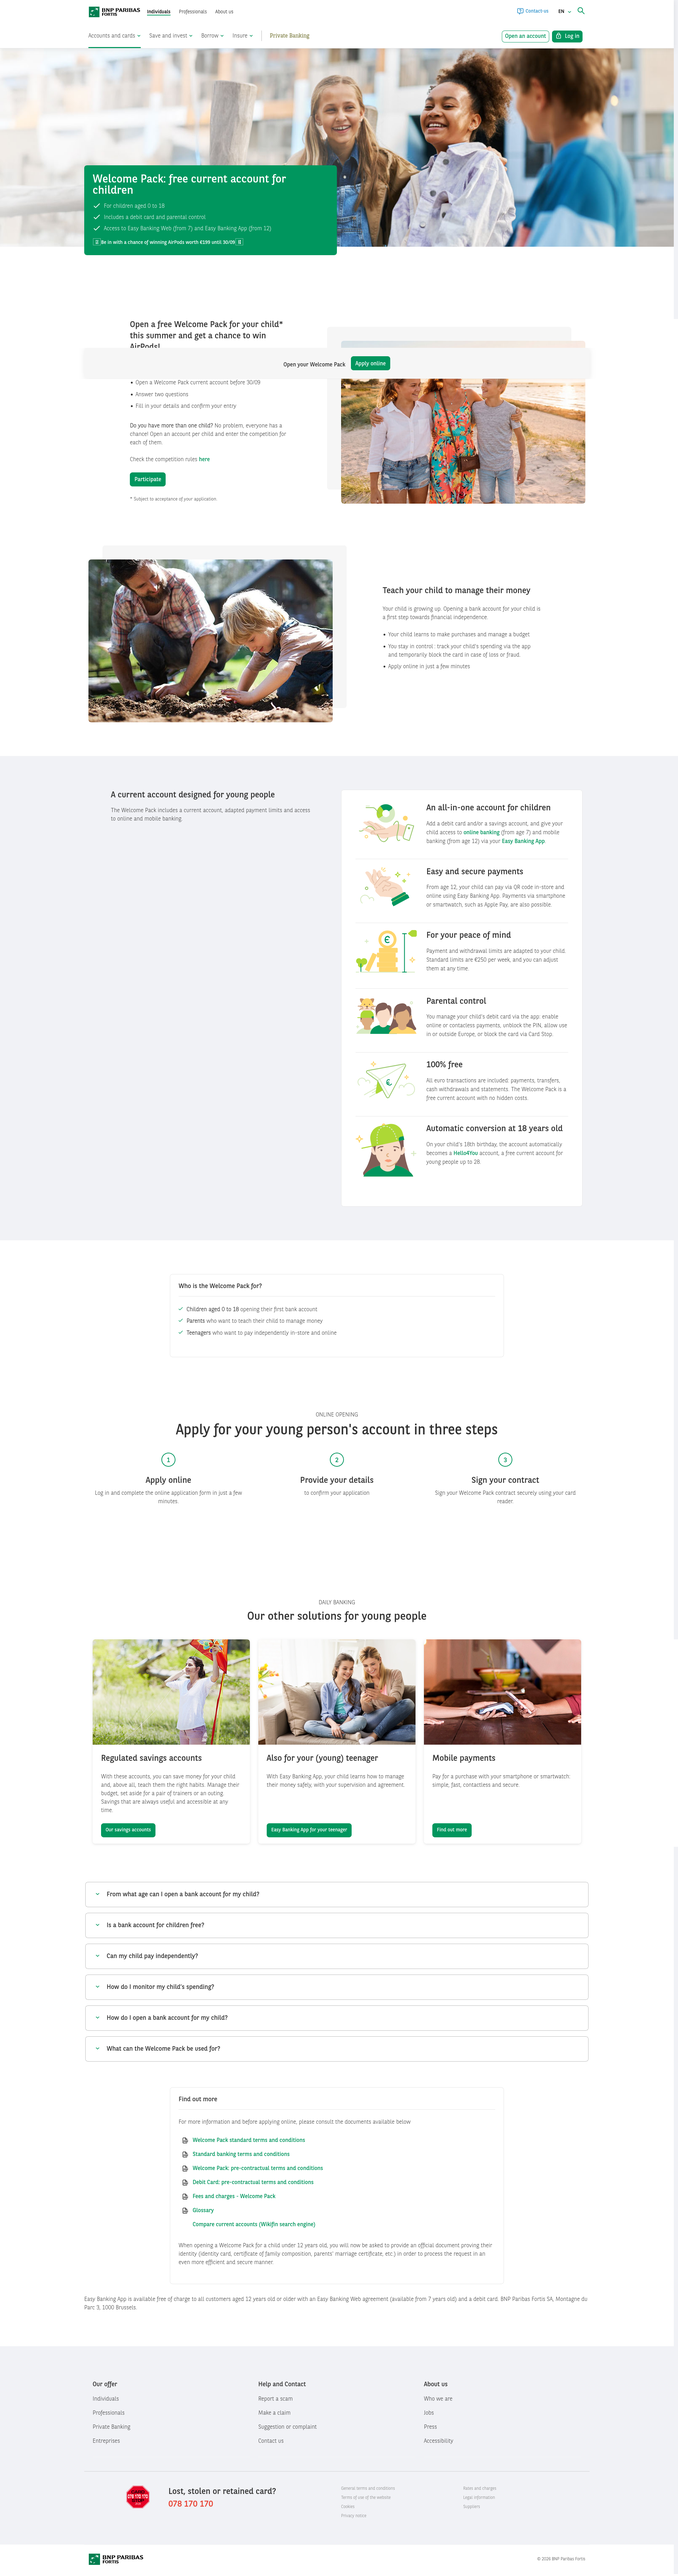
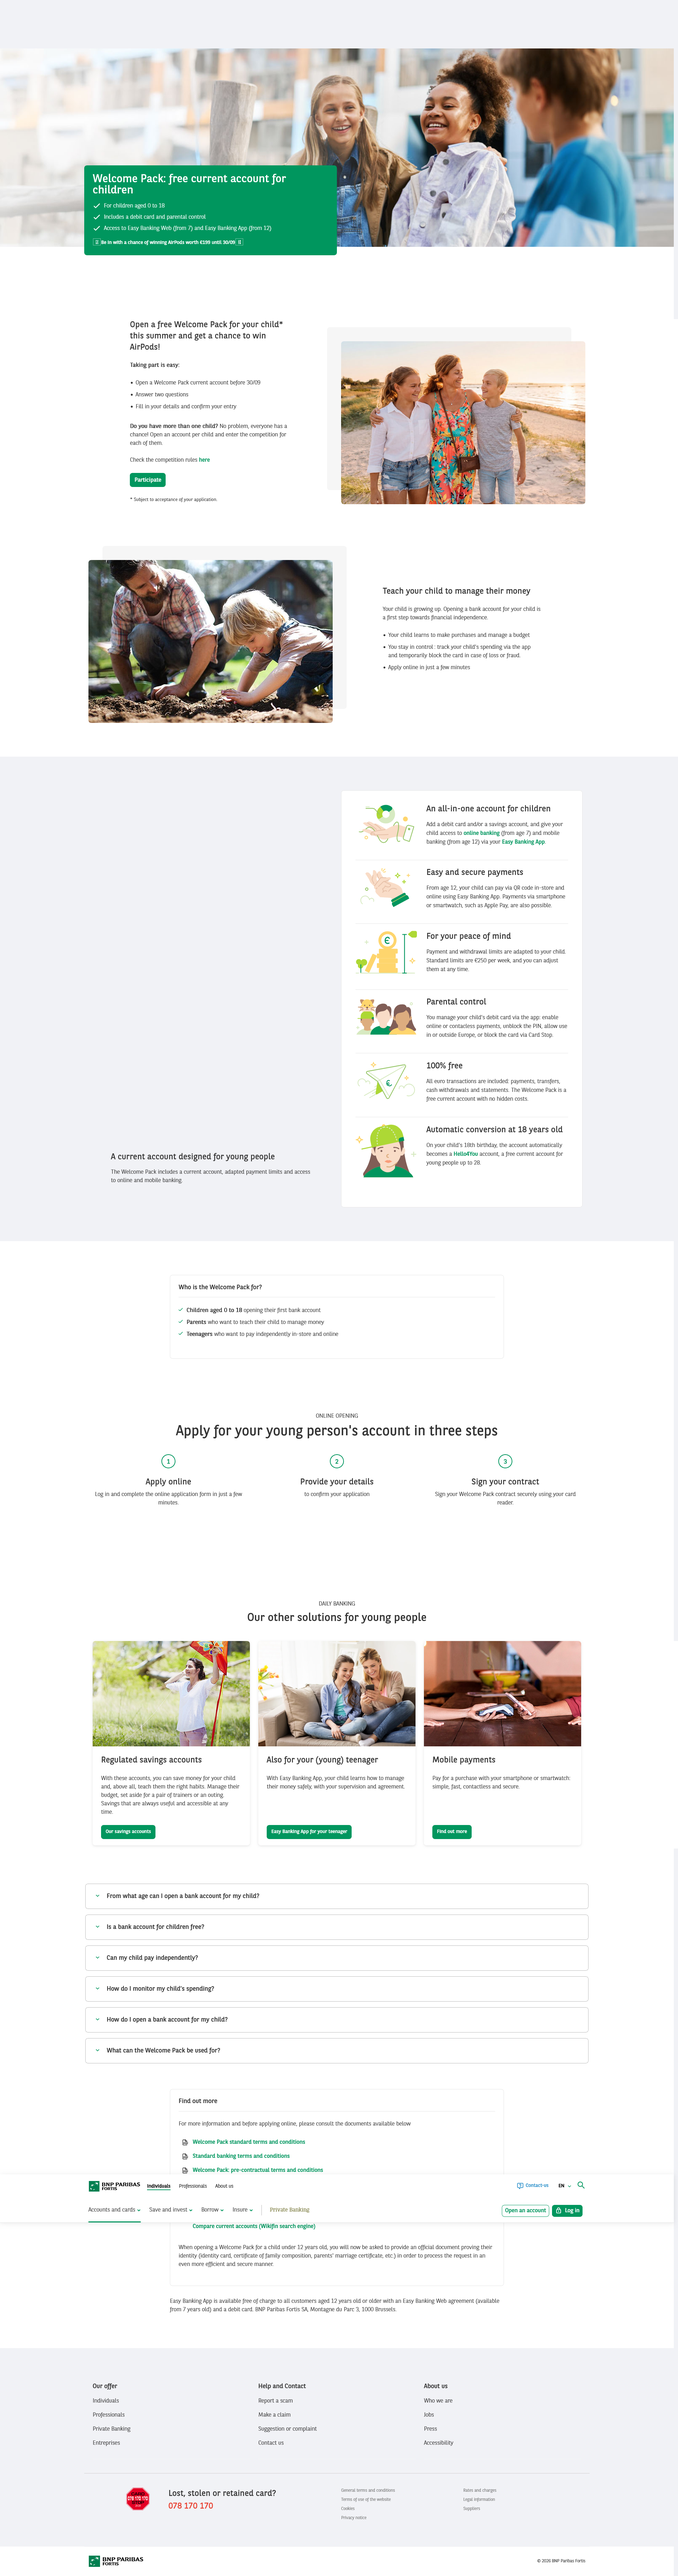
Colors extraction rectified for ing

diff --git a/src/extract_colors.py b/src/extract_colors.py
@@ -1,54 +1,86 @@
 import re
 import sqlite3
 from playwright.sync_api import sync_playwright
+from collections import Counter
+from PIL import Image
 
-URL = "https://www.bnpparibasfortis.be/en/public/individuals/daily-banking/accounts/current-account/youth-account"
-
-
-def rgb_to_hex(rgb_str):
-    """Converts 'rgb(r, g, b)' or 'rgba(r, g, b, a)' strings to HEX format (#RRGGBB)."""
-    nums = re.findall(r"\d+", rgb_str)
-    if len(nums) >= 3:
-        r, g, b = map(int, nums[:3])
-        return f"#{r:02x}{g:02x}{b:02x}".upper()
-    return None
-
-
-def extract_page_colors(page):
-    """Extracts unique visible colors from all DOM elements on the page."""
-    # Execute JS in the browser to collect all computed text and background colors
-    raw_colors = page.evaluate(
+def extract_dominant_colors(
+        screenshot_path: str | None,
+        color_count: int = 5,
+    ) -> list[str]:
         """
-        () => {
-            const colors = new Set();
-            const elements = document.querySelectorAll('body *');
+        Extract dominant colors from the screenshot.
 
-            elements.forEach(el => {
-                const style = window.getComputedStyle(el);
-                
-                // Filter out fully transparent backgrounds (rgba(0, 0, 0, 0))
-                if (style.color && style.color !== 'rgba(0, 0, 0, 0)') {
-                    colors.add(style.color);
-                }
-                if (style.backgroundColor && style.backgroundColor !== 'rgba(0, 0, 0, 0)') {
-                    colors.add(style.backgroundColor);
-                }
-            });
+        Returns hexadecimal values such as:
+            ['#ffffff', '#ff6200', '#000000']
+        """
 
-            return Array.from(colors);
-        }
-    """
-    )
+        # No screenshot means no color analysis is possible.
+        if not screenshot_path:
+            return []
 
-    # Convert RGB/RGBA values to HEX and deduplicate
-    hex_colors = set()
-    for color in raw_colors:
-        hex_val = rgb_to_hex(color)
-        if hex_val:
-            hex_colors.add(hex_val)
+        try:
 
-    return list(hex_colors)
+            # Open the screenshot using Pillow.
+            image = Image.open(
+                screenshot_path
+            )
 
+            # Use RGB for consistent color processing.
+            image = image.convert(
+                "RGB"
+            )
+
+            # Reduce the image size to make the analysis faster.
+            image.thumbnail(
+                (800, 800)
+            )
+
+            # Reduce the number of colors to a manageable palette.
+            quantized = image.quantize(
+                colors=32
+            ).convert(
+                "RGB"
+            )
+
+            pixels = list(
+                quantized.getdata()
+            )
+
+            # Count how frequently each RGB color appears.
+            counter = Counter(
+                pixels
+            )
+
+            dominant_colors = []
+
+            # Keep the most frequent colors.
+            for rgb, _count in counter.most_common(
+                color_count
+            ):
+
+                hex_color = (
+                    "#{:02x}{:02x}{:02x}".format(
+                        rgb[0],
+                        rgb[1],
+                        rgb[2],
+                    )
+                )
+
+                dominant_colors.append(
+                    hex_color
+                )
+
+            return dominant_colors
+
+        except Exception as e:
+
+            print(
+                "COLOR EXTRACTION ERROR:",
+                e,
+            )
+
+            return []
 
 def save_colors_to_sqlite(page_url, color_list, db_path="./data/bank_analysis.db"):
     """Inserts extracted colors into the page_colors junction table."""
@@ -87,38 +119,3 @@ def save_colors_to_sqlite(page_url, color_list, db_path="./data/bank_analysis.db
     print(
         f"Successfully inserted {len(color_records)} colors for page ID {page_id} into 'page_colors'."
     )
-
-
-def run():
-    with sync_playwright() as p:
-        browser = p.firefox.launch(headless=True)
-        context = browser.new_context(
-            viewport={"width": 1920, "height": 1080}, locale="en-US"
-        )
-        page = context.new_page()
-
-        print(f"Navigating to {URL}...")
-        page.goto(URL, wait_until="networkidle")
-
-        # Handle cookie banner to prevent overlay colors from skewing results
-        cookie_trigger = page.locator(
-            '#cookies_all_accept_btn, button:has-text("Accept"), a:has-text("Accept")'
-        ).first
-        if cookie_trigger.is_visible():
-            cookie_trigger.click()
-            page.wait_for_timeout(1000)
-
-        # Extract & process colors
-        unique_hex_colors = extract_page_colors(page)
-
-        print("\nExtracted Unique HEX Colors:")
-        print(unique_hex_colors)
-
-        # Save to database
-        save_colors_to_sqlite(URL, unique_hex_colors)
-
-        browser.close()
-
-
-if __name__ == "__main__":
-    run()

diff --git a/main.py b/main.py
@@ -1,6 +1,6 @@
 from playwright.sync_api import sync_playwright
 from config import banks
-from src.extract_colors import extract_page_colors, save_colors_to_sqlite
+from src.extract_colors import extract_dominant_colors, save_colors_to_sqlite
 from src.cookies import handle_cookie_banner
 from src.insertion_db import save_to_sqlite
 from src.html_scraper import extract_marketing_data
@@ -81,7 +81,7 @@ def main():
                 # Save record
                 save_to_sqlite(url, bank, scraped_data)
 
-                unique_hex_colors = extract_page_colors(page)
+                unique_hex_colors = extract_dominant_colors(f"./screenshots/{outpath}_design.png")
                 print("\nExtracted Unique HEX Colors:")
                 print(unique_hex_colors)
 
